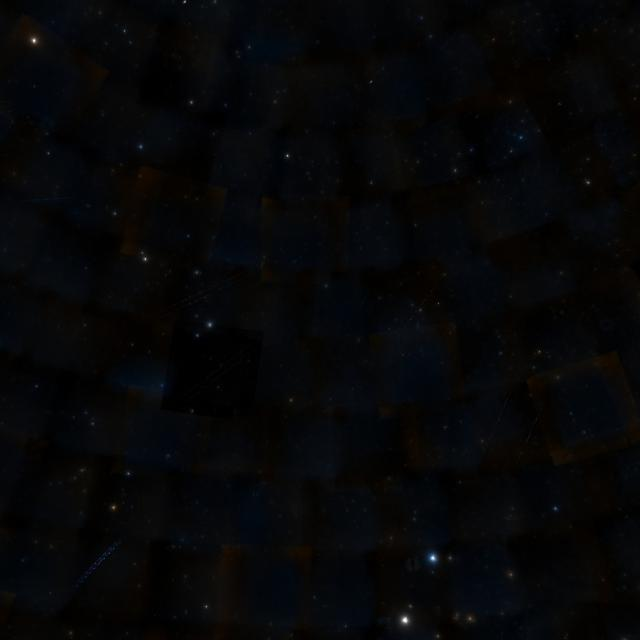
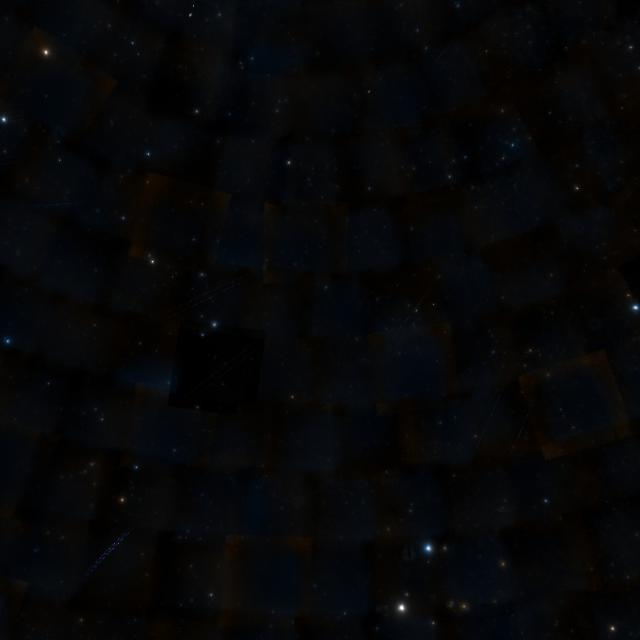
Tune ra/dec/fov for 31 constellations, add viewer tweak controls
Framing adjustments (user-tuned via viewer tool):
Antlia, Apus, Aries, Canis Minor, Camelopardalis, Canes Venatici,
Cassiopeia, Coma Berenices, Delphinus, Dorado, Equuleus, Fornax,
Leo Minor, Lupus, Lynx, Lyra, Mensa, Microscopium, Musca, Norma,
Ophiuchus, Pictor, Scutum, Sextans, Telescopium, Triangulum,
Triangulum Australe, Tucana, Ursa Minor, Volans, Hydra

Viewer tweak controls (viewer mode only):
- Scale / X / Y sliders for live framing adjustment
- "Copy ra/dec/fov" button copies adjusted values to clipboard

diff --git a/index.html b/index.html
@@ -561,6 +561,15 @@
     .viewer-mode #lbl-rev-photo { display:inline-flex; }
     #viewer-select-row { display:none; justify-content:center; margin-top:10px; }
     .viewer-mode #viewer-select-row { display:flex; }
+    #viewer-tweak { display:none; padding:8px 16px; }
+    .viewer-mode #viewer-tweak { display:block; }
+    .tweak-row { display:flex; align-items:center; gap:8px; margin:4px 0; font-size:.8rem; }
+    .tweak-row label { width:80px; flex-shrink:0; }
+    .tweak-val { color:var(--accent); }
+    .tweak-row input[type=range] { flex:1; }
+    #btn-copy-framing { padding:6px 16px; border:1px solid var(--border); background:transparent;
+                        color:var(--text); border-radius:8px; cursor:pointer; font-size:.82rem; }
+    #btn-copy-framing:hover { border-color:var(--accent); color:var(--accent); }
     #con-select-viewer { background:var(--bg); color:var(--text); border:1px solid var(--border);
                          border-radius:8px; padding:6px 10px; font-size:.85rem; }
   </style>
@@ -608,6 +617,23 @@
         <label class="rev-chk"><input type="checkbox" id="chk-rev-artwork" checked> Artwork</label>
       </div>
       <div id="viewer-select-row"><select id="con-select-viewer"></select></div>
+      <div id="viewer-tweak">
+        <div class="tweak-row">
+          <label>Scale <span class="tweak-val" id="tweak-scale-val">1.00×</span></label>
+          <input type="range" id="tweak-scale" min="25" max="400" value="100" step="1">
+        </div>
+        <div class="tweak-row">
+          <label>X <span class="tweak-val" id="tweak-dx-val">0.0°</span></label>
+          <input type="range" id="tweak-dx" min="-45" max="45" value="0" step="0.5">
+        </div>
+        <div class="tweak-row">
+          <label>Y <span class="tweak-val" id="tweak-dy-val">0.0°</span></label>
+          <input type="range" id="tweak-dy" min="-45" max="45" value="0" step="0.5">
+        </div>
+        <div style="text-align:center;margin-top:6px">
+          <button id="btn-copy-framing">Copy ra/dec/fov</button>
+        </div>
+      </div>
       <div class="nav-row">
         <button class="btn-prev" id="btn-prev">← Prev</button>
         <button class="btn-next" id="btn-next">Next →</button>
@@ -702,7 +728,7 @@
       },
 
       {
-        name: "Cassiopeia", abbr: "Cas", hem: "N", diff: 1, ra: 14.5, dec: 60.5, fov: 16.8,
+        name: "Cassiopeia", abbr: "Cas", hem: "N", diff: 1, ra: 13.0, dec: 60.0, fov: 21.7,
         stars: [[2.293305, 59.14978, 2.3, null, 'Caph'], [10.126740000000002, 56.537331, 2.2, 'o', 'Schedar'], [14.177145, 60.71674, 2.1, 'b', 'Cih'], [21.453239999999997, 60.235283, 2.7], [28.598760000000002, 63.670101, 3.4, 'b']],
         lines: [[0, 1], [1, 2], [2, 3], [3, 4]]
       },
@@ -756,7 +782,7 @@
       },
 
       {
-        name: "Ursa Minor", abbr: "UMi", hem: "N", diff: 1, meaning: "the little bear", ra: 229.7, dec: 81.1, fov: 23.4,
+        name: "Ursa Minor", abbr: "UMi", hem: "N", diff: 1, meaning: "the little bear", ra: 229.7, dec: 81.1, fov: 25.6,
         stars: [[37.94625, 89.264109, 2.0, null, 'Polaris'], [263.05377, 86.58646, 4.3], [251.49238499999998, 82.037262, 4.2], [236.014485, 77.794493, 4.3], [244.376865, 75.75533, 5.0], [230.182245, 71.834016, 3.0], [222.676575, 74.155505, 2.1, 'r', 'Kochab']],
         lines: [[0, 1], [1, 2], [2, 3], [3, 4], [4, 5], [5, 6], [6, 3]]
       },
@@ -774,7 +800,7 @@
       },
 
       {
-        name: "Aries", abbr: "Ari", hem: "N", diff: 2, meaning: "the ram", ra: 35.3, dec: 23.5, fov: 17.5,
+        name: "Aries", abbr: "Ari", hem: "N", diff: 2, meaning: "the ram", ra: 35.8, dec: 22.0, fov: 21.3,
         stars: [[28.38255, 19.293852, 3.9], [28.66002, 20.808035, 2.6], [31.793325000000003, 23.462423, 2.0, 'o', 'Hamal'], [42.495945, 27.260507, 3.6, 'b']],
         lines: [[0, 1], [1, 2], [2, 3]]
       },
@@ -798,7 +824,7 @@
       },
 
       {
-        name: "Canis Minor", abbr: "CMi", hem: "N", diff: 2, meaning: "the lesser dog", ra: 114.2, dec: 8.0, fov: 8.4,
+        name: "Canis Minor", abbr: "CMi", hem: "N", diff: 2, meaning: "the lesser dog", ra: 114.2, dec: 8.0, fov: 14.2,
         stars: [[114.825495, 5.224993, 0.4, null, 'Procyon'], [111.78768, 8.289315, 2.9, 'b'], [116.567505, 10.768252, 5.25]],
         lines: [[0, 1]]
       },
@@ -834,7 +860,7 @@
       },
 
       {
-        name: "Delphinus", abbr: "Del", hem: "N", diff: 2, meaning: "the dolphin", ra: 310.0, dec: 13.7, fov: 6.7,
+        name: "Delphinus", abbr: "Del", hem: "N", diff: 2, meaning: "the dolphin", ra: 310.0, dec: 13.7, fov: 8.9,
         stars: [[308.303205, 11.303263, 4.0], [309.38724, 14.595087, 3.6], [309.909525, 15.912072, 3.8, 'b'], [311.6646, 16.124296, 4.3], [310.864725, 15.074581, 4.4]],
         lines: [[0, 1], [1, 2], [2, 3], [3, 4], [4, 1]]
       },
@@ -876,13 +902,13 @@
       },
 
       {
-        name: "Lyra", abbr: "Lyr", hem: "N", diff: 2, meaning: "the lyre", ra: 282.1, dec: 36.2, fov: 9.5,
+        name: "Lyra", abbr: "Lyr", hem: "N", diff: 2, meaning: "the lyre", ra: 283.1, dec: 35.7, fov: 11.9,
         stars: [[279.2346, 38.783692, 0.0, 'b', 'Vega'], [281.08475999999996, 39.670123, 4.7], [281.193135, 37.605115, 4.3], [283.62618, 36.898613, 4.2], [284.735925, 32.689557, 3.2], [282.51997500000004, 33.362667, 3.5]],
         lines: [[0, 1], [1, 2], [2, 0], [0, 2], [2, 3], [3, 4], [4, 5], [5, 2]]
       },
 
       {
-        name: "Ophiuchus", abbr: "Oph", hem: "B", diff: 2, meaning: "the serpent bearer", ra: 256.7, dec: -8.7, fov: 55.2,
+        name: "Ophiuchus", abbr: "Oph", hem: "B", diff: 2, meaning: "the serpent bearer", ra: 255.2, dec: -2.2, fov: 60.9,
         stars: [[263.733615, 12.560035, 2.1, 'b', 'Rasalhague'], [254.417085, 9.375033, 3.2, 'o'], [247.72843500000002, 1.983923, 3.8], [243.58641000000003, -3.694323, 2.7, 'r'], [244.58036999999996, -4.692511, 3.2, 'o'], [246.950775, -8.371731, 4.6], [249.28974000000002, -10.56709, 2.5], [257.59452, -15.72491, 2.4, 'b', 'Sabik'], [265.868145, 4.567303, 2.8, 'o'], [266.973165, 2.707276, 3.8], [269.75662500000004, -9.773632, 3.3, 'o'], [260.502405, -24.999545, 3.3, 'b'], [261.83863499999995, -29.867033, 4.3], [247.784865, -16.612733, 4.3], [246.755985, -18.456251, 4.2], [246.02577, -20.037327, 4.5], [246.39632999999998, -23.447178, 4.6]],
         lines: [[0, 1], [1, 2], [2, 3], [3, 4], [4, 5], [5, 6], [6, 5], [5, 4], [4, 3], [3, 2], [2, 1], [1, 6], [6, 7], [7, 8], [8, 9], [9, 10], [10, 9], [9, 8], [8, 0], [7, 11], [11, 12], [6, 13], [13, 14], [14, 15], [15, 16]]
       },
@@ -942,13 +968,13 @@
       },
 
       {
-        name: "Antlia", abbr: "Ant", hem: "S", diff: 3, meaning: "the air pump", ra: 153.2, dec: -34.3, fov: 21.5,
+        name: "Antlia", abbr: "Ant", hem: "S", diff: 3, meaning: "the air pump", ra: 150.7, dec: -30.8, fov: 32.6,
         stars: [[164.179335, -37.137765, 4.6], [156.78795, -31.067779, 4.3], [142.311345, -35.951335, 4.5]],
         lines: [[0, 1], [1, 2]]
       },
 
       {
-        name: "Apus", abbr: "Aps", hem: "S", diff: 3, meaning: "the bird of paradise", ra: 237.3, dec: -78.6, fov: 6.9,
+        name: "Apus", abbr: "Aps", hem: "S", diff: 3, meaning: "the bird of paradise", ra: 235.3, dec: -78.6, fov: 14.6,
         stars: [[221.965515, -79.044751, 3.8, 'r'], [248.36413499999998, -78.897148, 3.9], [245.086785, -78.695745, 4.7], [250.77189, -77.517435, 4.2]],
         lines: [[0, 1], [2, 3], [3, 1]]
       },
@@ -966,13 +992,13 @@
       },
 
       {
-        name: "Camelopardalis", abbr: "Cam", hem: "N", diff: 3, meaning: "the giraffe", ra: 69.5, dec: 66.3, fov: 35.4,
+        name: "Camelopardalis", abbr: "Cam", hem: "N", diff: 3, meaning: "the giraffe", ra: 69.5, dec: 69.8, fov: 37.9,
         stars: [[74.3217, 53.752101, 4.4], [75.85454999999999, 60.442245, 4.0], [73.51254, 66.342678, 4.3], [94.711575, 69.319787, 4.8], [105.016215, 76.977408, 4.5], [57.589529999999996, 71.332266, 4.6], [57.380355, 65.525972, 4.4], [52.26723, 59.94033, 4.2]],
         lines: [[0, 1], [1, 2], [2, 3], [3, 4], [4, 3], [3, 2], [2, 5], [5, 6], [6, 7]]
       },
 
       {
-        name: "Canes Venatici", abbr: "CVn", hem: "N", diff: 3, meaning: "the hunting dogs", ra: 192.4, dec: 37.3, fov: 12.1,
+        name: "Canes Venatici", abbr: "CVn", hem: "N", diff: 3, meaning: "the hunting dogs", ra: 193.9, dec: 37.3, fov: 18.5,
         stars: [[194.007105, 38.31838, 2.9, 'b'], [188.43616500000002, 41.35748, 4.2], [196.43517, 35.798899, 5.195, 'b'], [188.41215, 33.247584, 5.38, 'o']],
         lines: [[0, 1]]
       },
@@ -1008,7 +1034,7 @@
       },
 
       {
-        name: "Coma Berenices", abbr: "Com", hem: "N", diff: 3, meaning: "Berenice's hair", ra: 192.4, dec: 23.0, fov: 16.9,
+        name: "Coma Berenices", abbr: "Com", hem: "N", diff: 3, meaning: "Berenice's hair", ra: 190.4, dec: 24.0, fov: 20.1,
         stars: [[197.49703499999998, 17.529431, 4.3], [197.96856, 27.878183, 4.2], [186.73449, 28.268423, 4.3]],
         lines: [[0, 1], [1, 2]]
       },
@@ -1026,19 +1052,19 @@
       },
 
       {
-        name: "Dorado", abbr: "Dor", hem: "S", diff: 3, meaning: "the dolphinfish", ra: 74.1, dec: -59.1, fov: 22.1,
+        name: "Dorado", abbr: "Dor", hem: "S", diff: 3, meaning: "the dolphinfish", ra: 72.1, dec: -58.6, fov: 22.1,
         stars: [[64.00645499999999, -51.486648, 4.3], [68.49897, -55.044975, 3.3, 'b'], [76.377795, -57.472704, 4.7], [83.40631499999999, -62.489825, 3.8], [86.193345, -65.735526, 4.3], [88.52487, -63.089627, 4.7]],
         lines: [[0, 1], [1, 2], [2, 3], [3, 1], [1, 3], [3, 4], [4, 5], [5, 3]]
       },
 
       {
-        name: "Equuleus", abbr: "Equ", hem: "N", diff: 3, meaning: "the little horse", ra: 318.3, dec: 7.7, fov: 5.8,
+        name: "Equuleus", abbr: "Equ", hem: "N", diff: 3, meaning: "the little horse", ra: 319.8, dec: 7.2, fov: 8.3,
         stars: [[318.955965, 5.247845, 3.9], [318.62005500000004, 10.006981, 4.5], [317.58541499999995, 10.131579, 4.7]],
         lines: [[0, 1], [1, 2]]
       },
 
       {
-        name: "Fornax", abbr: "For", hem: "S", diff: 3, meaning: "the furnace", ra: 39.6, dec: -30.8, fov: 17.4,
+        name: "Fornax", abbr: "For", hem: "S", diff: 3, meaning: "the furnace", ra: 41.1, dec: -30.8, fov: 18.7,
         stars: [[48.018735, -28.987618, 3.8], [42.272535000000005, -32.405898, 4.5], [31.122660000000003, -29.296819, 4.7]],
         lines: [[0, 1], [1, 2]]
       },
@@ -1074,31 +1100,31 @@
       },
 
       {
-        name: "Leo Minor", abbr: "LMi", hem: "N", diff: 3, meaning: "the little lion", ra: 153.6, dec: 35.3, fov: 18.8,
+        name: "Leo Minor", abbr: "LMi", hem: "N", diff: 3, meaning: "the little lion", ra: 150.6, dec: 35.3, fov: 23.1,
         stars: [[143.55576000000002, 36.397558, 4.5], [151.857315, 35.244693, 4.5], [156.970905, 36.707212, 4.2], [163.32789, 34.214871, 3.8, 'o'], [156.47842500000002, 33.79612, 4.7]],
         lines: [[0, 1], [1, 2], [2, 3], [3, 4], [4, 1]]
       },
 
       {
-        name: "Lupus", abbr: "Lup", hem: "S", diff: 3, meaning: "the wolf", ra: 231.0, dec: -43.0, fov: 26.4,
+        name: "Lupus", abbr: "Lup", hem: "S", diff: 3, meaning: "the wolf", ra: 229.0, dec: -44.0, fov: 28.9,
         stars: [[220.482345, -47.3882, 2.3, 'b'], [228.0714, -52.099247, 3.4], [230.67031500000002, -44.689622, 3.4, 'b'], [233.785215, -41.166757, 2.8, 'b'], [230.343015, -40.647518, 3.2, 'b'], [224.63305499999998, -43.13396, 2.7, 'b'], [240.03054, -38.396706, 3.4, 'b'], [230.4516, -36.261376, 3.6, 'r'], [237.73974, -33.627165, 4.0]],
         lines: [[0, 1], [1, 2], [2, 3], [3, 4], [4, 5], [5, 4], [4, 3], [3, 6], [6, 7], [7, 8], [8, 6], [6, 1]]
       },
 
       {
-        name: "Lynx", abbr: "Lyn", hem: "N", diff: 3, meaning: "the lynx", ra: 122.9, dec: 49.0, fov: 44.2,
+        name: "Lynx", abbr: "Lyn", hem: "N", diff: 3, meaning: "the lynx", ra: 122.9, dec: 49.0, fov: 45.9,
         stars: [[140.263875, 34.392562, 3.1, 'r'], [139.711035, 36.802597, 3.8], [136.632375, 38.452215, 4.6], [135.160275, 41.782911, 4.0], [125.70881999999999, 43.188131, 4.2], [111.67855499999999, 49.211527, 4.6], [104.31918, 58.422759, 4.3], [94.90578000000001, 59.010964, 4.4]],
         lines: [[0, 1], [1, 2], [2, 3], [3, 4], [4, 5], [5, 6], [6, 7]]
       },
 
       {
-        name: "Mensa", abbr: "Men", hem: "S", diff: 3, meaning: "the table mountain", ra: 82.0, dec: -72.7, fov: 11.8,
+        name: "Mensa", abbr: "Men", hem: "S", diff: 3, meaning: "the table mountain", ra: 82.0, dec: -72.7, fov: 19.5,
         stars: [[92.55948000000001, -74.753045, 5.1], [75.679185, -71.3143, 5.3], [70.76646, -70.931027, 5.511, 'b'], [82.96977, -76.340964, 5.2, 'o'], [92.18465, -68.843409, 5.038, 'b']],
         lines: [[0, 1], [0, 3], [3, 1], [1, 2], [4, 0]]
       },
 
       {
-        name: "Microscopium", abbr: "Mic", hem: "S", diff: 3, meaning: "the microscope", ra: 316.0, dec: -33.0, fov: 7.0,
+        name: "Microscopium", abbr: "Mic", hem: "S", diff: 3, meaning: "the microscope", ra: 315.5, dec: -30.5, fov: 10.0,
         stars: [[312.49199999999996, -33.779722, 4.9], [312.99483, -33.177974, 6.1], [315.322755, -32.257767, 4.67], [319.48449, -32.172539, 4.82]],
         lines: [[0, 1], [1, 2], [2, 3]]
       },
@@ -1110,13 +1136,13 @@
       },
 
       {
-        name: "Musca", abbr: "Mus", hem: "S", diff: 3, meaning: "the fly", ra: 184.9, dec: -69.6, fov: 9.8,
+        name: "Musca", abbr: "Mus", hem: "S", diff: 3, meaning: "the fly", ra: 184.9, dec: -68.6, fov: 9.8,
         stars: [[176.402115, -66.728763, 3.6], [184.393755, -67.960736, 4.1], [189.29608499999998, -69.135564, 2.7, 'b'], [191.57019, -68.108119, 3.0, 'b'], [195.566385, -71.548855, 3.6, 'o'], [188.11701, -72.132988, 3.8, 'b']],
         lines: [[0, 1], [1, 2], [2, 3], [3, 4], [4, 5], [5, 2]]
       },
 
       {
-        name: "Norma", abbr: "Nor", hem: "S", diff: 3, meaning: "the carpenter's square", ra: 243.9, dec: -49.9, fov: 11.8,
+        name: "Norma", abbr: "Nor", hem: "S", diff: 3, meaning: "the carpenter's square", ra: 243.9, dec: -50.9, fov: 12.3,
         stars: [[240.80368499999997, -49.229695, 4.7], [244.960305, -50.155508, 4.0], [246.796005, -47.554786, 4.5], [241.62264, -45.173185, 4.7], [243.36972, -54.630467, 4.94, 'o']],
         lines: [[0, 1], [1, 2], [2, 3], [3, 0], [4, 0], [4, 1]]
       },
@@ -1140,7 +1166,7 @@
       },
 
       {
-        name: "Pictor", abbr: "Pic", hem: "S", diff: 3, meaning: "the painter's easel", ra: 93.3, dec: -56.7, fov: 15.7,
+        name: "Pictor", abbr: "Pic", hem: "S", diff: 3, meaning: "the painter's easel", ra: 90.3, dec: -56.7, fov: 15.7,
         stars: [[102.04791, -61.941391, 3.2], [87.456765, -56.166663, 4.5], [86.821185, -51.066514, 3.9]],
         lines: [[0, 1], [1, 2]]
       },
@@ -1170,43 +1196,43 @@
       },
 
       {
-        name: "Scutum", abbr: "Sct", hem: "S", diff: 3, meaning: "the shield", ra: 279.6, dec: -9.7, fov: 12.4,
+        name: "Scutum", abbr: "Sct", hem: "S", diff: 3, meaning: "the shield", ra: 280.1, dec: -11.2, fov: 17.2,
         stars: [[281.79363, -4.747867, 4.2], [278.80177499999996, -8.244073, 3.9, 'o'], [277.29939, -14.565813, 4.7], [280.568445, -9.052549, 4.7]],
         lines: [[0, 1], [1, 2], [2, 3], [3, 0]]
       },
 
       {
-        name: "Sextans", abbr: "Sex", hem: "B", diff: 3, meaning: "the sextant", ra: 152.9, dec: -4.3, fov: 14.0,
+        name: "Sextans", abbr: "Sex", hem: "B", diff: 3, meaning: "the sextant", ra: 153.4, dec: -2.3, fov: 16.4,
         stars: [[148.126815, -8.10503, 5.1], [151.98450000000003, -0.371637, 4.5], [157.572825, -0.637026, 5.1], [157.36959, -2.739078, 5.2]],
         lines: [[0, 1], [1, 2], [2, 3]]
       },
 
       {
-        name: "Telescopium", abbr: "Tel", hem: "S", diff: 3, meaning: "the telescope", ra: 276.5, dec: -47.5, fov: 6.8,
+        name: "Telescopium", abbr: "Tel", hem: "S", diff: 3, meaning: "the telescope", ra: 276.5, dec: -47.5, fov: 7.2,
         stars: [[272.807355, -45.954418, 4.5], [276.74341499999997, -45.968459, 3.5, 'b'], [277.207575, -49.070588, 4.1], [280.182855, -47.027246, 6.81]],
         lines: [[0, 1], [1, 2], [3, 1]]
       },
 
       {
-        name: "Triangulum", abbr: "Tri", hem: "N", diff: 3, meaning: "the triangle", ra: 31.2, dec: 32.3, fov: 8.6,
+        name: "Triangulum", abbr: "Tri", hem: "N", diff: 3, meaning: "the triangle", ra: 30.2, dec: 32.3, fov: 10.7,
         stars: [[28.27044, 29.578829, 3.4], [32.38587, 34.987297, 3.0], [34.328595, 33.847194, 4.0]],
         lines: [[0, 1], [1, 2], [2, 0]]
       },
 
       {
-        name: "Triangulum Australe", abbr: "TrA", hem: "S", diff: 3, meaning: "the southern triangle", ra: 240.6, dec: -66.5, fov: 11.7,
+        name: "Triangulum Australe", abbr: "TrA", hem: "S", diff: 3, meaning: "the southern triangle", ra: 240.6, dec: -66.5, fov: 13.4,
         stars: [[252.166155, -69.027715, 1.9, 'r', 'Atria'], [238.786245, -63.430727, 2.8], [234.18, -66.317037, 4.1], [229.72771500000002, -68.679545, 2.9]],
         lines: [[0, 1], [1, 2], [2, 3], [3, 0]]
       },
 
       {
-        name: "Tucana", abbr: "Tuc", hem: "S", diff: 3, meaning: "the toucan", ra: 350.5, dec: -62.0, fov: 19.9,
+        name: "Tucana", abbr: "Tuc", hem: "S", diff: 3, meaning: "the toucan", ra: 352.5, dec: -62.0, fov: 22.3,
         stars: [[7.885875, -62.958218, 4.4], [5.01213, -64.874791, 4.2], [359.97891, -65.577132, 4.5], [336.832965, -64.966354, 4.5], [334.625565, -60.259587, 2.9, 'r'], [349.35747, -58.235734, 4.0]],
         lines: [[0, 1], [1, 2], [2, 3], [3, 4], [4, 5], [5, 0]]
       },
 
       {
-        name: "Volans", abbr: "Vol", hem: "S", diff: 3, meaning: "the flying fish", ra: 122.7, dec: -68.6, fov: 13.2,
+        name: "Volans", abbr: "Vol", hem: "S", diff: 3, meaning: "the flying fish", ra: 121.7, dec: -68.6, fov: 15.3,
         stars: [[135.611655, -66.396076, 4.0], [126.434265, -66.13689, 3.8, 'o'], [121.982595, -68.617062, 4.3], [109.20762, -67.957152, 4.0], [107.18682, -70.498932, 3.8, 'o']],
         lines: [[0, 1], [1, 2], [2, 3], [3, 4], [4, 2], [2, 0]]
       },
@@ -2094,13 +2120,15 @@
     }
 
     function redrawReveal(con) {
+      const origAbbr = con.abbr;
+      if (session.viewMode) con = tweakedCon(con);
       const showBound = document.getElementById('chk-rev-boundary').checked;
       const showDiag = document.getElementById('chk-rev-diagram').checked;
       const showArt = document.getElementById('chk-rev-artwork').checked;
       const canvas = document.getElementById('quiz-canvas');
       const ctx = canvas.getContext('2d');
       const W = canvas.width, H = canvas.height;
-      const artImg = artCache[con.abbr] instanceof HTMLImageElement ? artCache[con.abbr] : null;
+      const artImg = artCache[origAbbr] instanceof HTMLImageElement ? artCache[origAbbr] : null;
 
       const angle = session.rotation || 0;
       if (angle) {
@@ -2127,11 +2155,11 @@
       if (settings.mode !== 'photo' || showDiag) drawStars(ctx, revealProj);
 
       // Boundary overlay (still within rotation transform for photo mode)
-      if (showBound && BOUNDS[con.abbr]) {
+      if (showBound && BOUNDS[origAbbr]) {
         ctx.save();
         ctx.strokeStyle = 'rgba(120,200,120,0.55)';
         ctx.lineWidth = 1.5;
-        for (const ring of BOUNDS[con.abbr]) {
+        for (const ring of BOUNDS[origAbbr]) {
           const boundPts = projectStarsTAN(ring.map(([ra, dec]) => [ra, dec, 0]), con, W, H);
           ctx.beginPath();
           let first = true;
@@ -2196,6 +2224,23 @@
     // ═══════════════════════════════════════════════════════════
     let settings = { mode: 'diagram', diff: '1', hem: 'B' };
     let session = { pool: [], idx: 0, correct: 0, answered: false, history: [], choices: [], viewMode: false };
+    let viewerTweak = { scale: 1, dx: 0, dy: 0 };
+
+    function tweakedCon(con) {
+      const { scale, dx, dy } = viewerTweak;
+      const newFov = 2 * Math.atan(Math.tan(con.fov * Math.PI / 360) / scale) * 180 / Math.PI;
+      return { ...con, ra: ((con.ra + dx) % 360 + 360) % 360, dec: con.dec + dy, fov: newFov };
+    }
+
+    function resetViewerTweak() {
+      viewerTweak = { scale: 1, dx: 0, dy: 0 };
+      document.getElementById('tweak-scale').value = 100;
+      document.getElementById('tweak-dx').value = 0;
+      document.getElementById('tweak-dy').value = 0;
+      document.getElementById('tweak-scale-val').textContent = '1.00×';
+      document.getElementById('tweak-dx-val').textContent = '0.0°';
+      document.getElementById('tweak-dy-val').textContent = '0.0°';
+    }
     let debugLabels = false;
     let debugAnchors = false;
 
@@ -2252,6 +2297,7 @@
     function viewConstellation(con) {
       settings.mode = 'diagram';
       document.getElementById('chk-rev-photo').checked = false;
+      resetViewerTweak();
       session.pool = [con];
       session.idx = 0;
       session.answered = true;
@@ -2617,6 +2663,32 @@
       document.getElementById('con-select-viewer').addEventListener('change', () => {
         const con = C.find(c => c.abbr === document.getElementById('con-select-viewer').value);
         if (con) viewConstellation(con);
+      });
+
+      // Viewer tweak sliders
+      function onTweakChange() {
+        viewerTweak.scale = document.getElementById('tweak-scale').value / 100;
+        viewerTweak.dx    = parseFloat(document.getElementById('tweak-dx').value);
+        viewerTweak.dy    = parseFloat(document.getElementById('tweak-dy').value);
+        document.getElementById('tweak-scale-val').textContent = viewerTweak.scale.toFixed(2) + '×';
+        document.getElementById('tweak-dx-val').textContent    = viewerTweak.dx.toFixed(1) + '°';
+        document.getElementById('tweak-dy-val').textContent    = viewerTweak.dy.toFixed(1) + '°';
+        const con = session.pool[session.idx];
+        if (con && session.viewMode) redrawReveal(con);
+      }
+      ['tweak-scale','tweak-dx','tweak-dy'].forEach(id =>
+        document.getElementById(id).addEventListener('input', onTweakChange));
+
+      document.getElementById('btn-copy-framing').addEventListener('click', () => {
+        const con = session.pool[session.idx];
+        if (!con) return;
+        const tc = tweakedCon(con);
+        const text = `ra: ${tc.ra.toFixed(1)}, dec: ${tc.dec.toFixed(1)}, fov: ${tc.fov.toFixed(1)}`;
+        navigator.clipboard.writeText(text).then(() => {
+          const btn = document.getElementById('btn-copy-framing');
+          btn.textContent = 'Copied!';
+          setTimeout(() => { btn.textContent = 'Copy ra/dec/fov'; }, 1500);
+        });
       });
 
       document.getElementById('btn-next').addEventListener('click', nextQuestion);
